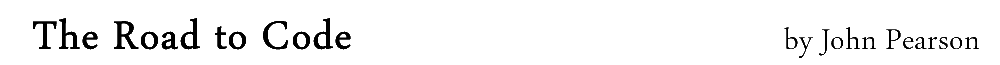
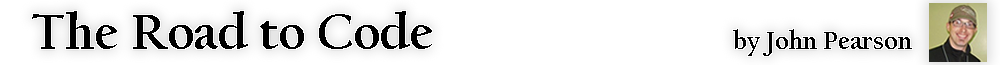
added links

diff --git a/app/assets/stylesheets/application.css b/app/assets/stylesheets/application.css
@@ -26,12 +26,15 @@ body {
 }
 
 /* Header Styling */
-.links tr {
-	border-top: black solid;
-	border-bottom: black solid;
+.top_table {
+	background: black;
+}
+.links {
+	border-top: white solid;
+	border-bottom: white solid;
 }
 .links tr td {
-	padding: 20px;
+	padding: 19.7px;
 }
 
 /* Sidebar Styling */

diff --git a/app/helpers/application_helper.rb b/app/helpers/application_helper.rb
@@ -1,7 +1,7 @@
 module ApplicationHelper
   # Sets base title
    def title
-     base_title = "John Pearson"
+     base_title = "The Road to Code"
      if @title.nil?
        base_title
      else
